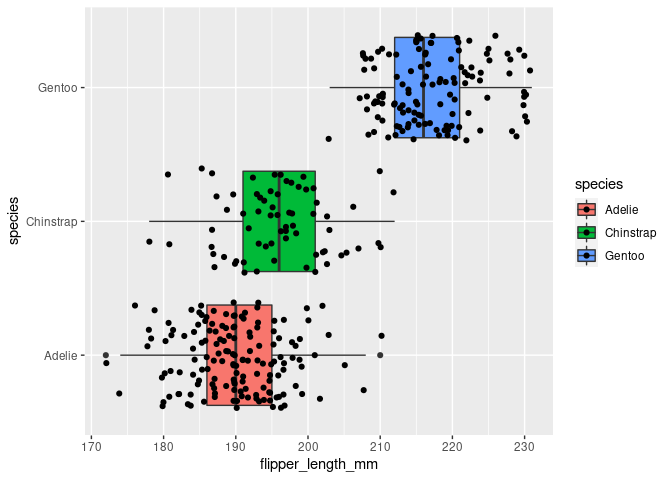
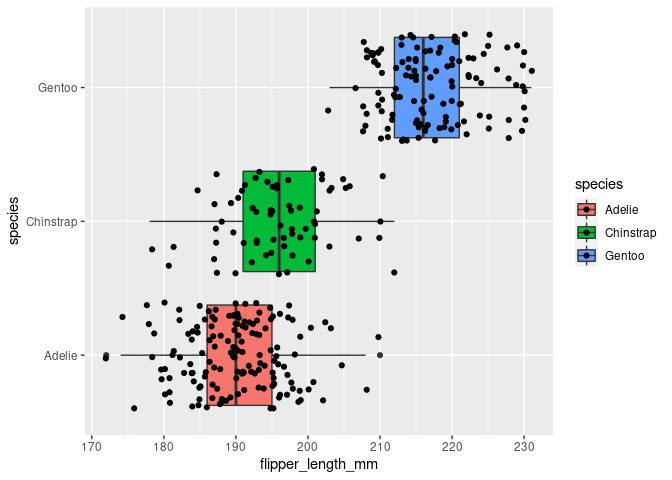
Finished the rest of the code.

diff --git a/activity02-ggplot2-intro.md b/activity02-ggplot2-intro.md
@@ -246,12 +246,20 @@ aesthetics mapped in the different layers. For example, how does having
 all of them mapped in the `ggplot` call compared to having these instead
 mapped in the `geom_boxplot` layer?
 
-ggplot(data = penguins, mapping = aes(x = flipper\_length\_mm, y =
-species)) + geom\_boxplot(mapping( ies)aes(color = species))
+``` r
+ggplot(data = penguins, mapping = aes(x = flipper_length_mm, y = species)) +
+  geom_boxplot(mapping = aes(color = species)) + geom_jitter()
+```
+
+    ## Warning: Removed 2 rows containing non-finite values (stat_boxplot).
+
+    ## Warning: Removed 2 rows containing missing values (geom_point).
+
+![](activity02-ggplot2-intro_files/figure-gfm/unnamed-chunk-1-1.png)<!-- -->
 
 Comment on what you notice.
 
-**Response**:
+**Response**: I can choose where I want the color to go.
 
 Knit, then stage everything listed in your **Git** pane, commit (with a
 meaningful commit message), and push to your GitHub repo. Go to GitHub
